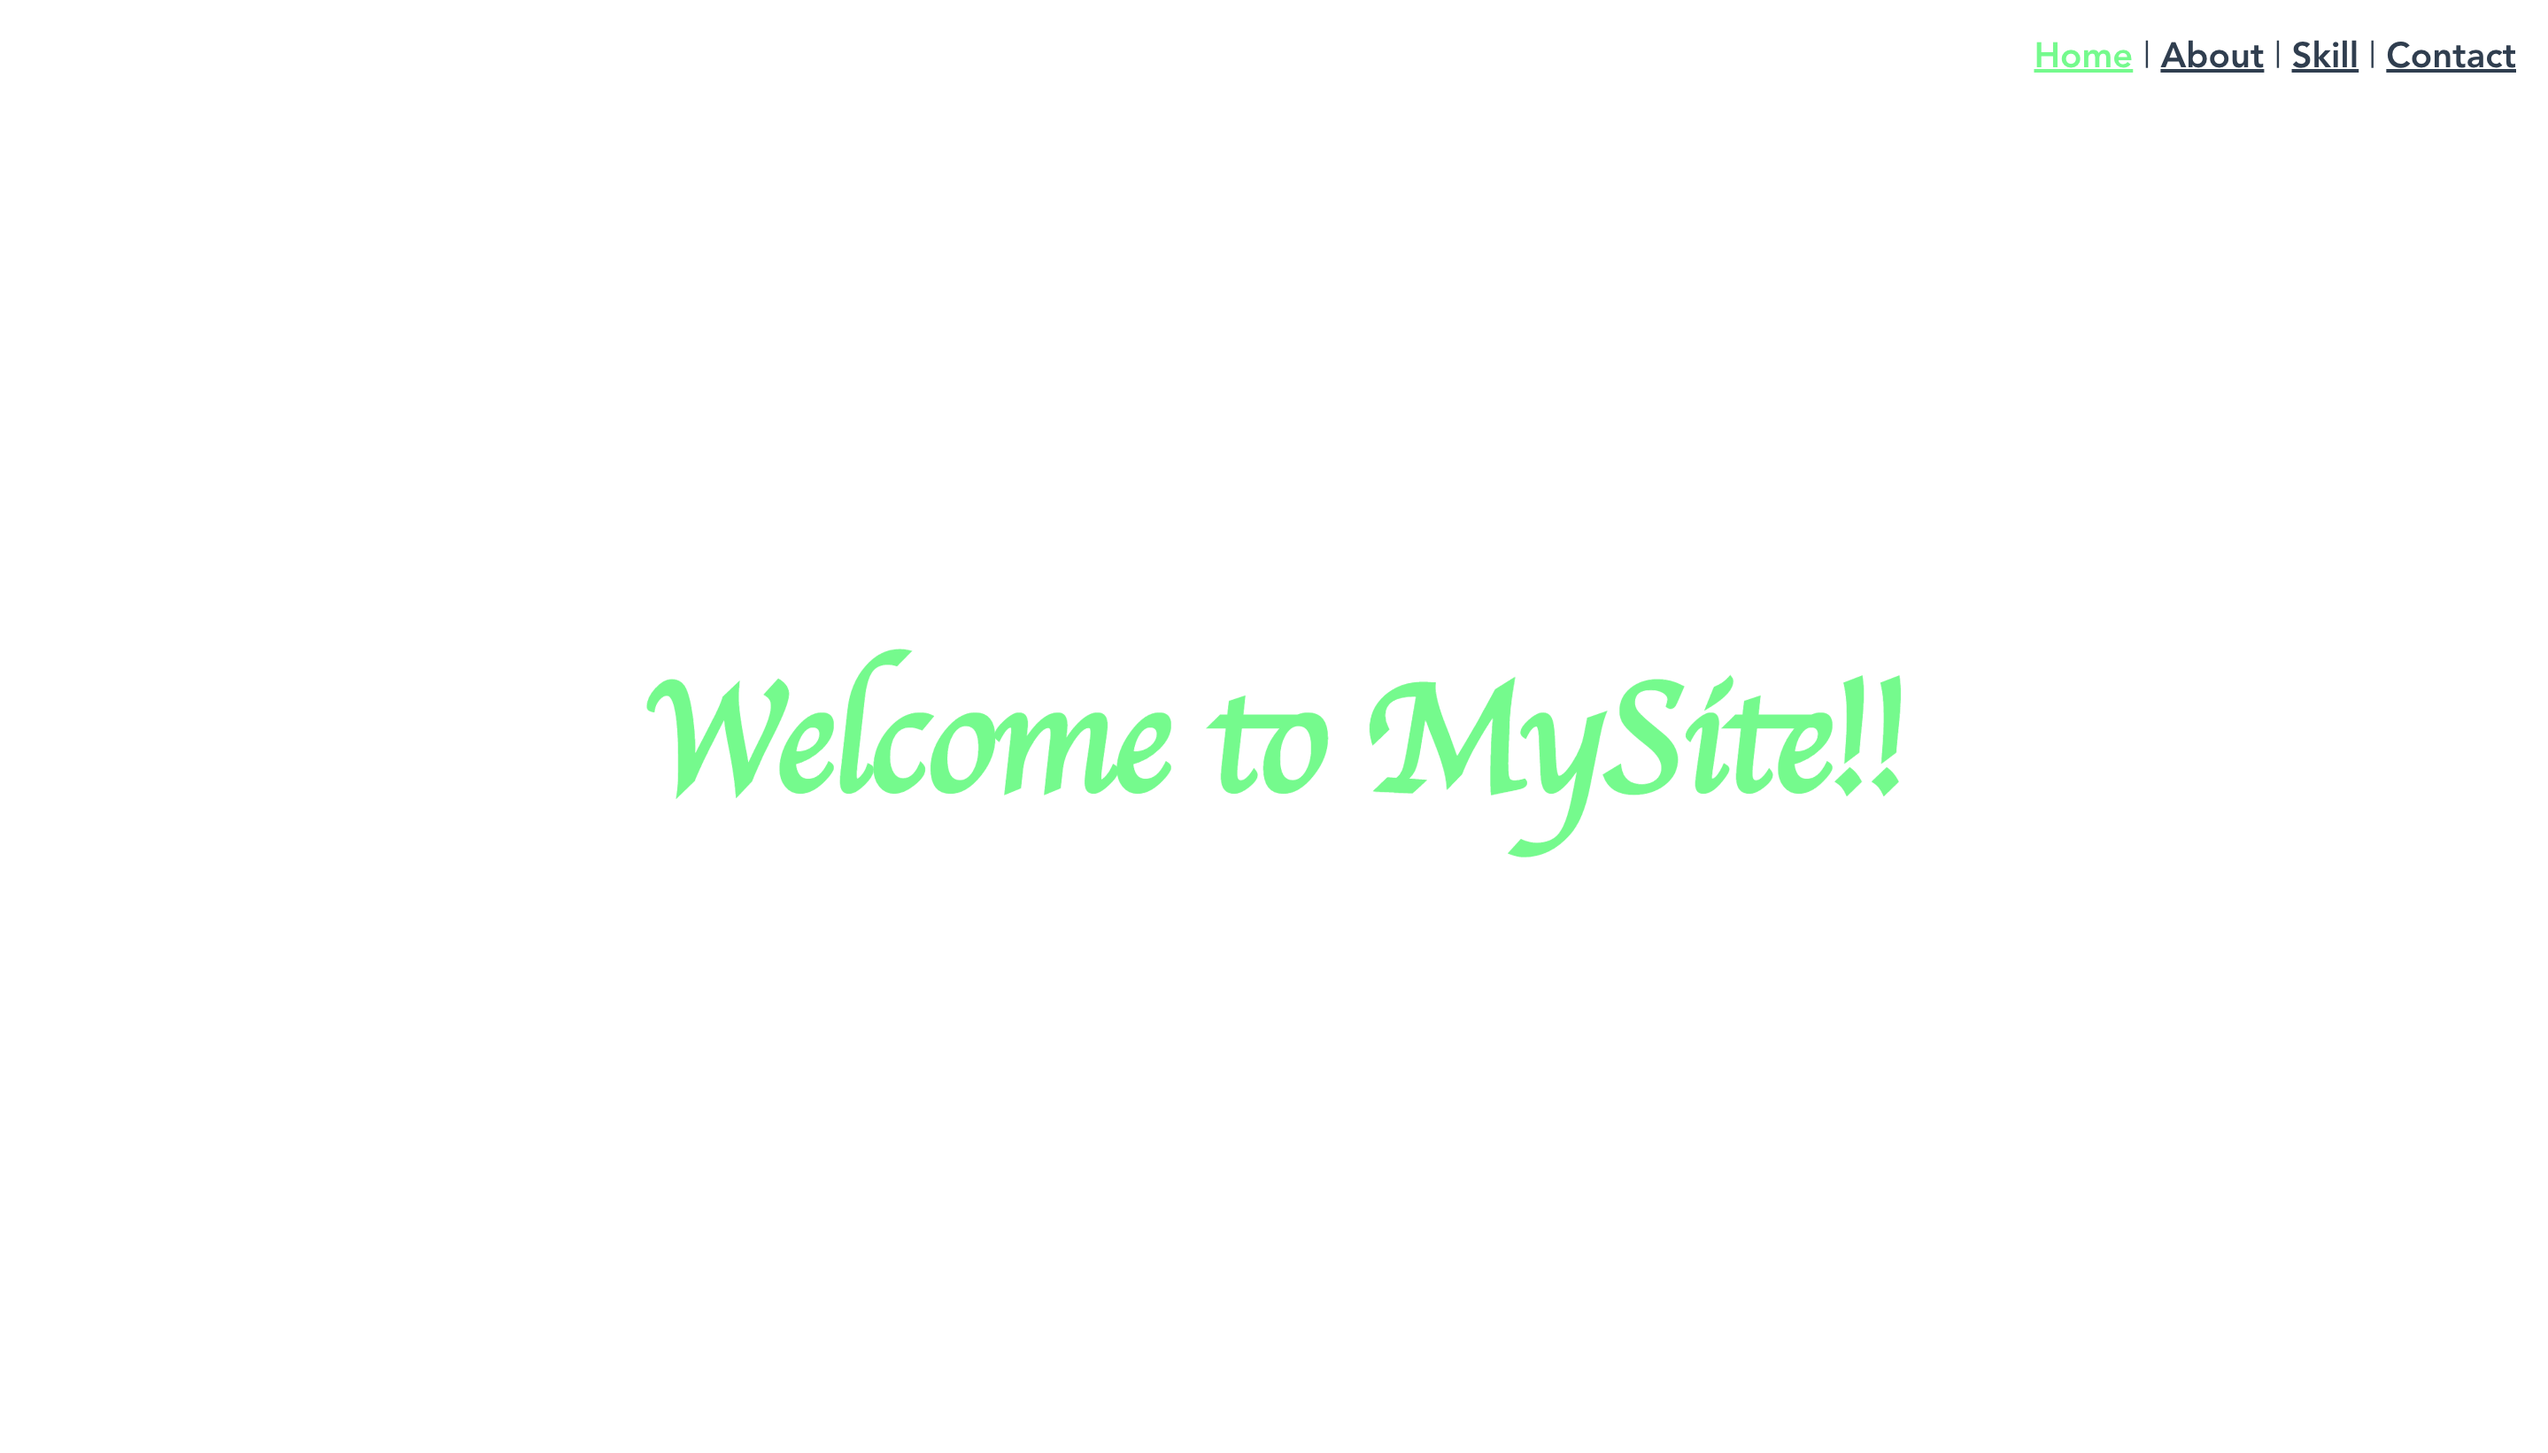
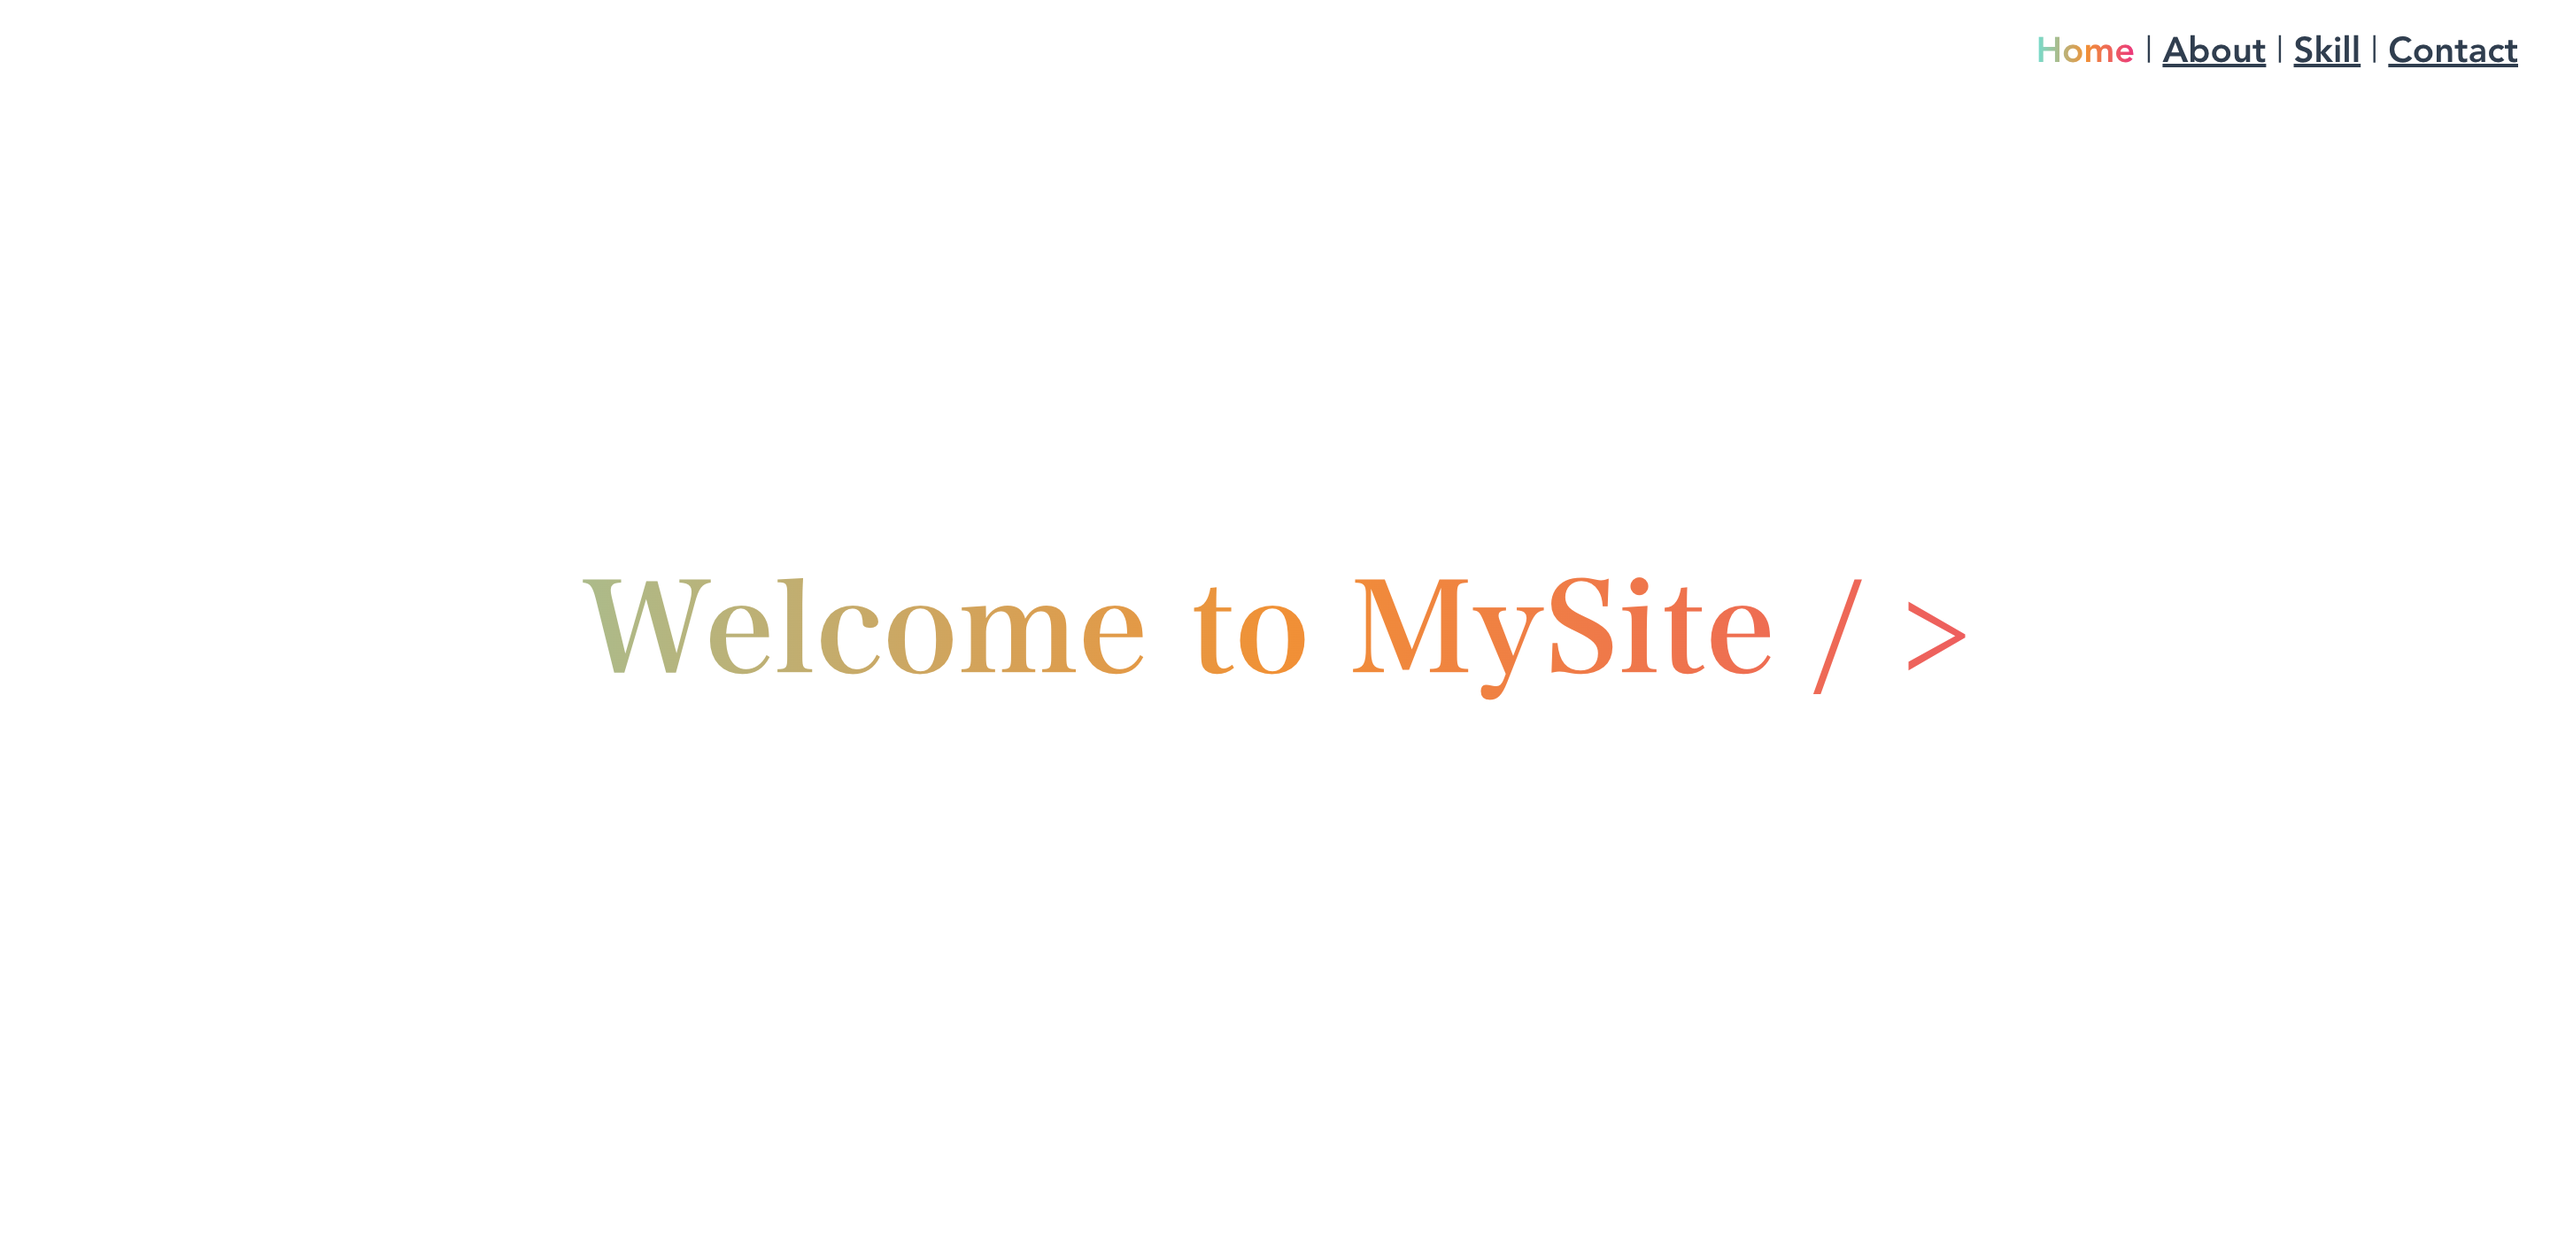
my-portfolio

Changed region(s): [[0.2165, 0.4332, 0.7731, 0.5879], [0.804, 0.0309, 0.9896, 0.0619]]

diff --git a/src/views/Skill.vue b/src/views/Skill.vue
@@ -1,6 +1,6 @@
 <template>
   <div>
-    <h2>My portfolio</h2>
+    <h2>My portfolio <router-link to="/contact">&gt;</router-link></h2>
     <div class="f-container">
       <div class="f-item1">
         <a href="http://3.114.158.164/">
@@ -33,75 +33,103 @@
         </a>
       </div>
     </div>
+    <Footer />
   </div>
 </template>
+
+<script>
+import Footer from '../components/Footer.vue'
+export default {
+  components: {
+    Footer
+  }
+}
+</script>
 
 <style scoped>
   h2 {
     text-align: center;
     margin-top: 60px;
-    font-family: 'Amatic SC', cursive;
+    font-family: 'Lato', sans-serif;
+    font-family: 'Baloo Bhaina 2', cursive;
+    font-family: 'Source Sans Pro', sans-serif;
+    font-family: 'Playfair Display', serif;
   }
   .f-container{
     display: flex;
     flex-wrap:wrap;
     margin-left: 155px;
     cursor: pointer;
+    max-width: 100%;
   }
   .f-item1{
     width: 335px;
     height: 257px;
     margin: 20px;
-    box-shadow: 0 0 0 1px;
-    transition: 0.5s;
+    box-shadow: 0px 3px 10px rgba(0,0,0,0.2);
+    transition: .3s;
+    border-radius: 5px;
   }
   .f-item1:hover{
-    opacity:  0.7;
-    width: 340px;
+    box-shadow: 0 10px 15px -5px rgba(0,0,0,.15),0 0 5px rgba(0,0,0,.1);	transform: translateY(-50px);
+    transition: 0.3s;
   }
   .f-item2{
     width: 335px;
     height: 257px;
     margin: 20px;
-    box-shadow: 0 0 0 1px;
-    transition: 0.5s;
+    box-shadow: 0px 3px 10px rgba(0,0,0,0.2);
+    transition: .3s;
+    border-radius: 5px;
   }
   .f-item2:hover{
-    opacity:  0.7;
-    width: 340px;
+    box-shadow: 0 10px 15px -5px rgba(0,0,0,.15),0 0 5px rgba(0,0,0,.1);	transform: translateY(-50px);
+    transition: 0.3s;
   }
   .f-item3{
     width: 335px;
     height: 257px;
     margin: 20px;
-    box-shadow: 0 0 0 1px;
-    transition: 0.5s;
+    box-shadow: 0px 3px 10px rgba(0,0,0,0.2);
+    transition: .3s;
   }
   .f-item3:hover{
-    opacity:  0.7;
-    width: 340px;
+    box-shadow: 0 10px 15px -5px rgba(0,0,0,.15),0 0 5px rgba(0,0,0,.1);	transform: translateY(-50px);
+    transition: 0.3s;
   }
   .f-item4{
     width: 335px;
     height: 257px;
     margin: 20px;
-    box-shadow: 0 0 0 1px;
-    transition: 0.5s;
-  }
-  .f-item4:hover{
-    opacity:  0.7;
-    width: 340px;
+    box-shadow: 0px 3px 10px rgba(0,0,0,0.2);
+    transition: .3s;
+    border-radius: 5px;
+  }.f-item4:hover{
+    box-shadow: 0 10px 15px -5px rgba(0,0,0,.15),0 0 5px rgba(0,0,0,.1);	transform: translateY(-50px);
+    transition: 0.3s;
   }
   .f-item5{
     width: 335px;
     height: 257px;
     margin: 20px;
-    box-shadow: 0 0 0 1px;
+    box-shadow: 0px 3px 10px rgba(0,0,0,0.2);
+    transition: .3s;
+    border-radius: 5px;
+  }
+  .f-item5:hover{
+    box-shadow: 0 10px 15px -5px rgba(0,0,0,.15),0 0 5px rgba(0,0,0,.1);	transform: translateY(-50px);
+    transition: 0.3s;
   }
   .f-item6{
     width: 335px;
     height: 257px;
     margin: 20px;
-    box-shadow: 0 0 0 1px;
+    box-shadow: 0px 3px 10px rgba(0,0,0,0.2);
+    transition: .3s;
+    border-radius: 5px;
+  }
+  .f-item6:hover{
+    box-shadow: 0 10px 15px -5px rgba(0,0,0,.15),0 0 5px rgba(0,0,0,.1);	transform: translateY(-50px);
+    transition: 0.3s;
   }
 </style>

diff --git a/src/views/About.vue b/src/views/About.vue
@@ -1,60 +1,56 @@
 <template>
   <div>
-    <img src="../assets/img.jpeg">
-    <h1>teruya inomata</h1>
-    <p>経歴
+    <img src="../assets/img.png">
+    <h1>teruya inomata <router-link to="/skill">&gt;</router-link></h1>
+    <p>対応力抜群のWebフリーランス。
       <br>
-      2019年12月TECH::EXPERT卒、
-      2020年1月Web製作会社勤務
-    </p>
-    <p>Web系フリーランスとして活動中
-      <br>
-      HTML,CSS,Javascript,Vue,php,
-      WordPressを用いたHP製作できます！
-    </p>
-    <p>Active as a web freelance
-      <br>
-      HTML, CSS, Javascript, Vue, php,
-      You can make a website using WordPress!
+      LP・HP制作、メディア運用、記事制作できます。
     </p>
     <div class="fabs">
-      <a href="https://github.com/teruyainomata0831" target="_blank" class="fab orange" tooltip="Github"><i class="sec zmdi zmdi-codepen animated"></i></a>
-
-      <a href="https://www.instagram.com/teruya_inomata/" target="_blank" class="fab red" tooltip="Instagram"><i class="sec zmdi zmdi-google-plus animated"></i></a>
-
-      <a href="https://twitter.com/teruya_inomata/" target="_blank" class="fab light-blue" tooltip="Twitter"><i class="sec zmdi zmdi-twitter animated"></i></a>
-
-      <a href="https://www.facebook.com/profile.php?id=100041095860085" target="_blank" class="fab indigo" tooltip="Facebook"><i class="sec zmdi zmdi-facebook animated"></i></a>
-
+      <a href="https://github.com/teruyainomata0831" target="_blank" class="fab orange" tooltip="Github"><i class="sec zmdi zmdi-codepen animated"></i>
+      <font-awesome-icon :icon="['fab', 'github']" />
+      </a>
+      <a href="https://www.instagram.com/teruya_inomata/" target="_blank" class="fab red" tooltip="Instagram"><i class="sec zmdi zmdi-google-plus animated"></i>
+      <font-awesome-icon :icon="['fab', 'instagram']" />
+      </a>
+      <a href="https://twitter.com/teruya_inomata/" target="_blank" class="fab light-blue" tooltip="Twitter"><i class="sec zmdi zmdi-twitter animated"></i>
+      <font-awesome-icon :icon="['fab', 'twitter']" />
+      </a>
+      <a href="https://www.facebook.com/profile.php?id=100041095860085" target="_blank" class="fab indigo" tooltip="Facebook"><i class="sec zmdi zmdi-facebook animated"></i><font-awesome-icon :icon="['fab', 'facebook']" /></a>
       <a target="_blank" class="fab red" tooltip="Share"><i class="prime zmdi animated rotateIn zmdi-plus"></i></a>
     </div>
+    <Footer />
   </div>
 </template>
 
 <script>
+import Footer from '../components/Footer.vue'
 export default {
+  components: {
+    Footer
+  }
 }
 </script>
 
 <style scoped>
   h1 {
     text-align: center;
-    font-family: 'Amatic SC', cursive;
+    font-family: 'Lato', sans-serif;
+    font-family: 'Baloo Bhaina 2', cursive;
+    font-family: 'Source Sans Pro', sans-serif;
+    font-family: 'Playfair Display', serif;
     font-size: 30px;
   }
-
+  p{
+    text-align: center;
+    font-size: 15px;
+  }
   img {
     border-radius: 100px;
     width: 110px;
     display: block;
     margin: auto;
     margin-top: 50px;
-  }
-
-  p{
-    text-align: center;
-    font-size: 15px;
-    padding: 5px;
   }
   .fabs {
   bottom: 0;

diff --git a/src/views/Contact.vue b/src/views/Contact.vue
@@ -1,30 +1,46 @@
 <template>
-  <div>
-    <img src="../assets/img.jpeg">
-    <h1>teruya inomata</h1>
+  <div class="contact">
+    <img src="../assets/img.png">
     <p>
       ビジネスのお話、お仕事依頼、その他...etc
       <br>
        お気軽にご連絡ください！
     </p>
+    <a href="mailto:terubot1711@icloud.com"><font-awesome-icon icon="envelope" />terubot1711&#64;icloud.com</a>
+    <a href="https://line.me/ti/p/zgLYzv_eoh"><font-awesome-icon :icon="['fab', 'line']" />LINE ID:terubot1117</a>
+    <Footer />
   </div>
 </template>
 
-<style scoped>
-  h1 {
-    text-align: center;
-    font-family: 'Amatic SC', cursive;
-    font-size: 30px;
+<script>
+import Footer from '../components/Footer.vue'
+export default {
+  components: {
+    Footer
   }
+}
+</script>
+
+<style scoped>
   img {
     border-radius: 100px;
     width: 110px;
     display: block;
     margin: auto;
     margin-top: 50px;
+    margin-bottom: 40px;
   }
   p{
     text-align: center;
     font-size: 15px;
+  }
+  a{
+    display: flex;
+    justify-content: center;
+    font-size: 15px;
+    color: #1976d2;
+  }
+  a:hover{
+    opacity: 0.6;
   }
 </style>

diff --git a/src/views/Home.vue b/src/views/Home.vue
@@ -1,12 +1,16 @@
 <template>
-  <div>
-    <h1>Welcome to MySite!!</h1>
+  <div class="home">
+    <h1>Welcome to MySite / <router-link to="/about">&gt;</router-link></h1>
+    <Footer />
   </div>
 </template>
 
 <script>
+import Footer from '../components/Footer.vue'
 export default {
-
+  components: {
+    Footer
+  }
 }
 </script>
 
@@ -14,13 +18,16 @@ export default {
   h1 {
     text-align: center;
     margin: auto;
-    font-size: 90px;
+    font-size: 70px;
     margin-top: 250px;
-    font-family: 'Amatic SC', cursive;
+    font-family: 'Lato', sans-serif;
+    font-family: 'Baloo Bhaina 2', cursive;
+    font-family: 'Source Sans Pro', sans-serif;
+    font-family: 'Playfair Display', serif;
     cursor: pointer;
-    color: cadetblue;
-  }
-  h1:hover{
-    color: black;
+    color: #FF8C00;
+    background: -webkit-linear-gradient(0deg, #40E0D0, #FF8C00, #FF0080);
+    -webkit-background-clip: text;
+    -webkit-text-fill-color: transparent;
   }
 </style>

diff --git a/src/main.js b/src/main.js
@@ -3,20 +3,14 @@ import App from './App.vue'
 import router from './router'
 import store from './store'
 
-import { library } from "@fortawesome/fontawesome-svg-core";
-import {
-  faChevronRight,
-  faChevronLeft
-} from "@fortawesome/free-solid-svg-icons";
-import { FontAwesomeIcon } from "@fortawesome/vue-fontawesome";
-
-library.add(faChevronRight, faChevronLeft);
-
-Vue.component("font-awesome-icon", FontAwesomeIcon);
+import { library } from '@fortawesome/fontawesome-svg-core';
+import { faPlus, faMinus, faExternalLinkAlt, faEnvelope} from '@fortawesome/free-solid-svg-icons';
+import { FontAwesomeIcon } from '@fortawesome/vue-fontawesome';
+import { fab } from '@fortawesome/free-brands-svg-icons';
+library.add(faPlus, faMinus, faExternalLinkAlt, faEnvelope, fab);
+Vue.component('font-awesome-icon', FontAwesomeIcon);
 
 Vue.config.productionTip = false
-
-Vue.component('font-awesome-icon', FontAwesomeIcon)
 
 new Vue({
   router,

diff --git a/src/App.vue b/src/App.vue
@@ -26,10 +26,24 @@
   a {
     font-weight: bold;
     color: #2c3e50;
+    text-decoration: none;
 
     &.router-link-exact-active {
-      color: #00FF7F;
+      color: #FF8C00;
+      background: -webkit-linear-gradient(0deg, #40E0D0, #FF8C00, #FF0080);
+      -webkit-background-clip: text;
+      -webkit-text-fill-color: transparent;
     }
+  }
+  a:hover {
+    text-decoration: underline;
+  }
+}
+
+@media only screen and (max-width: 600px) {
+  #nav {
+    justify-content: flex-start;
+    display: flex;
   }
 }
 </style>

diff --git a/src/components/Footer.vue b/src/components/Footer.vue
@@ -1,0 +1,14 @@
+<template>
+  <div class="footer">
+    <p>© 2020 teruyainomata All rights reserved.</p>
+  </div>
+</template>
+
+<style scoped>
+  p{
+    position: absolute;
+    bottom: 0;
+    left: 575px;
+    font-size: 15px;
+  }
+</style>
